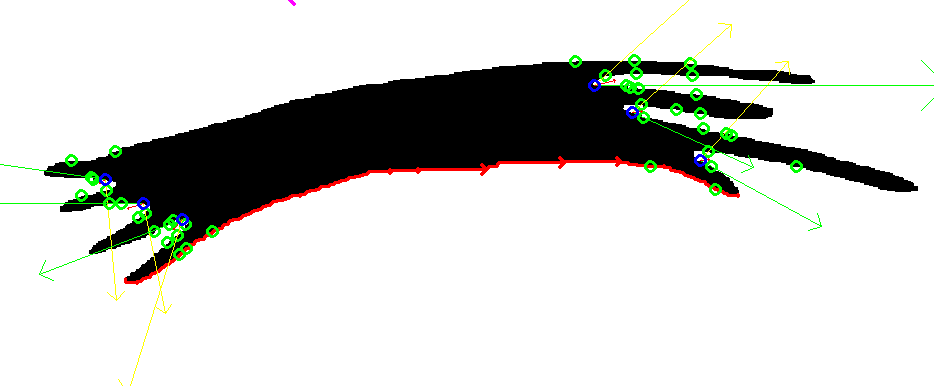
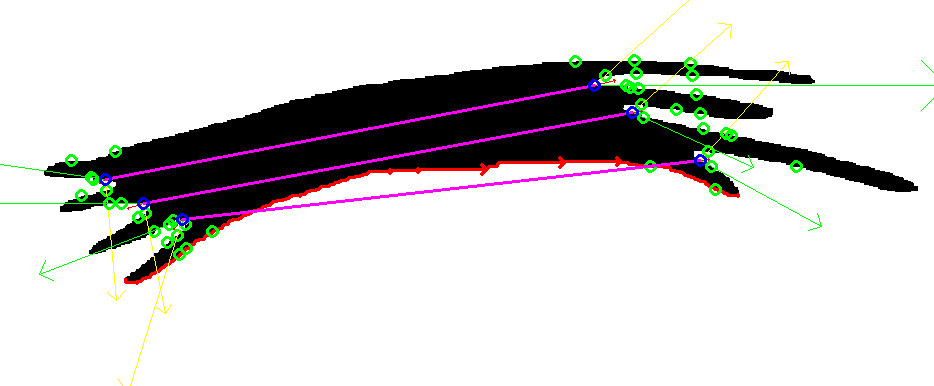
fix

diff --git a/prj.cw/junctionpoints/junction.cpp b/prj.cw/junctionpoints/junction.cpp
@@ -221,6 +221,9 @@ std::vector<cv::Point> JunctionMat::FindJunctionPoints() {
       indices.push_back(i);
       //      drawInfiniteLine(*this, p1, p3);
       auto cur_inter = findIntersectionsWithPolygon(borderPoints_, p1, p3);
+//      auto cur_inter = findIntersectionsWithPolygon(
+//          borderPoints_, p2 + (p1 - p2) / cv::norm(p1 - p2),
+//          p3 + (p3 - p2) / cv::norm(p3 - p2));
       if (!cur_inter.empty()) {
         cv::Point best_intersection = cur_inter[0];
         for (const auto& inter : cur_inter) {
@@ -393,8 +396,8 @@ void JunctionMat::AsParallel(cv::Point p1, cv::Point p2) {
 
   cv::Mat A(2, 2*n, CV_64F);
   for (int i = 0; i < 2*n; ++i) {
-    A.at<double>(i % 2, i) = 1;
-    A.at<double>((i + 1) % 2, i) = 0;
+    A.at<double>((i + 1) % 2, i) = 1;
+    A.at<double>(i % 2, i) = 0;
   }
 
   cv::Mat P(n*2, 1, CV_64F);
@@ -411,10 +414,16 @@ void JunctionMat::AsParallel(cv::Point p1, cv::Point p2) {
   std::vector<cv::Point> result;
   for (int i = 0; i < n; ++i) {
     result.emplace_back(X.at<double>(i*2, 0), X.at<double>(i*2 + 1, 0));
+//    std::cout << result.back() << std::endl;
   }
+  auto diff = p1 - result[0];
   for (int i = 0; i < result.size() - 1; ++i) {
-    cv::line(*this, result[i], result[i + 1], cv::Scalar(255, 0, 255), 2);
+    result[i] += diff;
   }
+//  for (int i = 0; i < result.size() - 1; ++i) {
+//    cv::line(*this, result[i], result[i + 1], cv::Scalar(255, 0, 255), 2);
+//  }
+  cv::line(*this, p1, p2, cv::Scalar(255, 0, 255), 2);
 }
 
 void processImagesInFolder(const std::string& folderPath,

diff --git a/prj.cw/junctionpoints/junction.h b/prj.cw/junctionpoints/junction.h
@@ -37,5 +37,6 @@ class JunctionMat : public cv::Mat {
 
   std::vector<cv::Point> FincGoodBorder();
   void AsParallel(cv::Point p1, cv::Point p2);
+  
 };
 #endif  // MIPT2024S_3_JUNCTION_H

diff --git a/prj.lab/movetest/movetest.h b/prj.lab/movetest/movetest.h
@@ -3,6 +3,7 @@
 
 #include <cmath>
 #include <iostream>
+#include <vector>
 
 #include "algorithm"
 #include "chrono"
